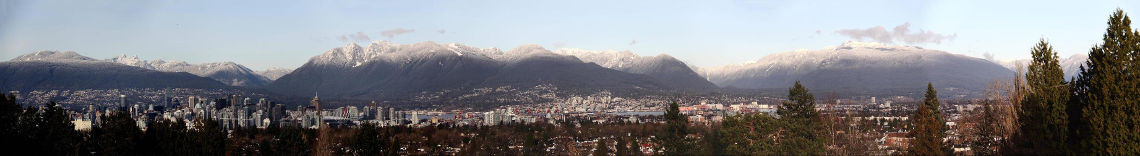
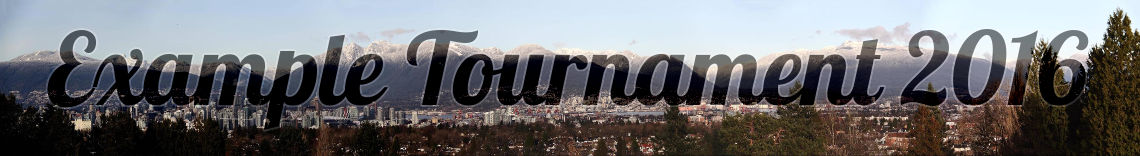
Tweaks

Changed region(s): [[0.0307, 0.1795, 0.9825, 0.8462]]

diff --git a/index.html b/index.html
@@ -14,8 +14,7 @@
                 <p v-if="banner"><img v-on:click="bannerChange" src="{{ banner }}" /></p>
                 <div class="row">
                     <div class="col-sm-4" v-bind:class="{ 'col-sm-offset-4': !matches.length, 'sliding-transition': matches.length }">
-                        <h2 v-if="matches.length">{{ name || "Competitors" }}</h2>
-                        <h2 v-if="!matches.length">{{ name || "Tournament" }}</h2>
+                        <h2>Competitors</h2>
                         <p v-if="competitors.length < 2">Start by adding at least 2 competitors</p>
                         <table v-bind:class="{ 'table': competitors.length, 'unstyled': !competitors.length }">
                             <thead v-if="competitors.length">
@@ -99,6 +98,7 @@
                                             <button class="btn btn-default btn-sm dropdown-toggle" type="button" data-toggle="dropdown" aria-haspopup="true" aria-expanded="true"><span class="glyphicon glyphicon-cog"></span> <span class="caret"></span></button>
                                             <ul class="dropdown-menu dropdown-menu-right">
                                                 <li><a href="#" v-on:click="tournamentExport">Export tournament</a>
+                                                <li><a href="#" v-on:click="bannerChange">Change banner</a>
                                                 <li role="separator" class="divider"></li>
                                                 <li><a href="#" v-on:click="tournamentDelete">Delete tournament</a>
                                             </ul>

diff --git a/tournament.js b/tournament.js
@@ -180,12 +180,11 @@ var vue = new Vue({
         },
         bannerChange() {
             var url = (prompt("New banner URL?") || "").trim();
-            if (!url) {
-            } else if (url.startsWith("http://") || url.startsWith("https://")) {
+            if (!url || url.startsWith("http://") || url.startsWith("https://")) {
                 vue.banner = url;
                 tournamentSave();
             } else {
-                alert("Banner URLs must start with `https://` or `http://`");
+                alert("Banner URLs must start with `https://` or `http://` or be blank.");
             }
         },
         competitorAdd() {
